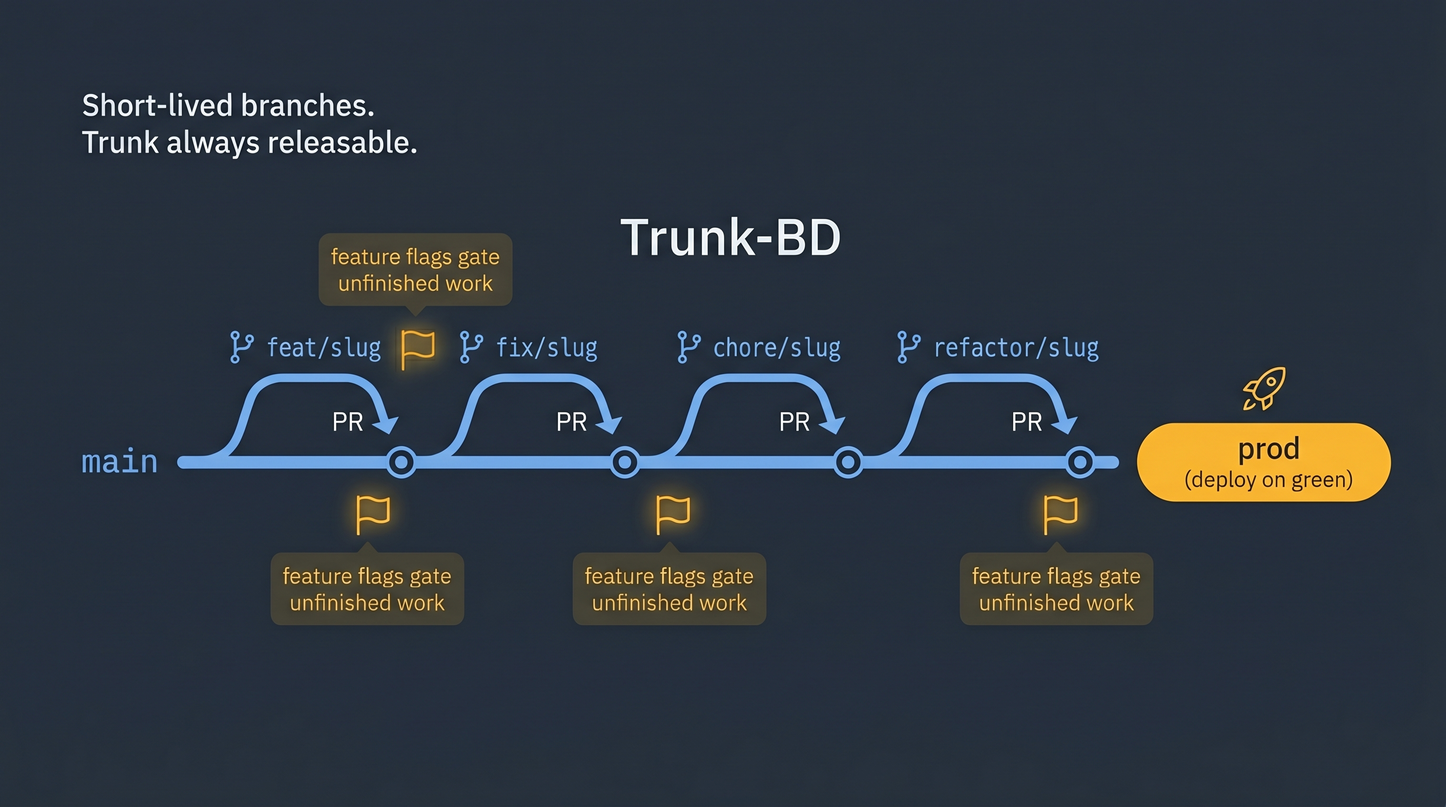
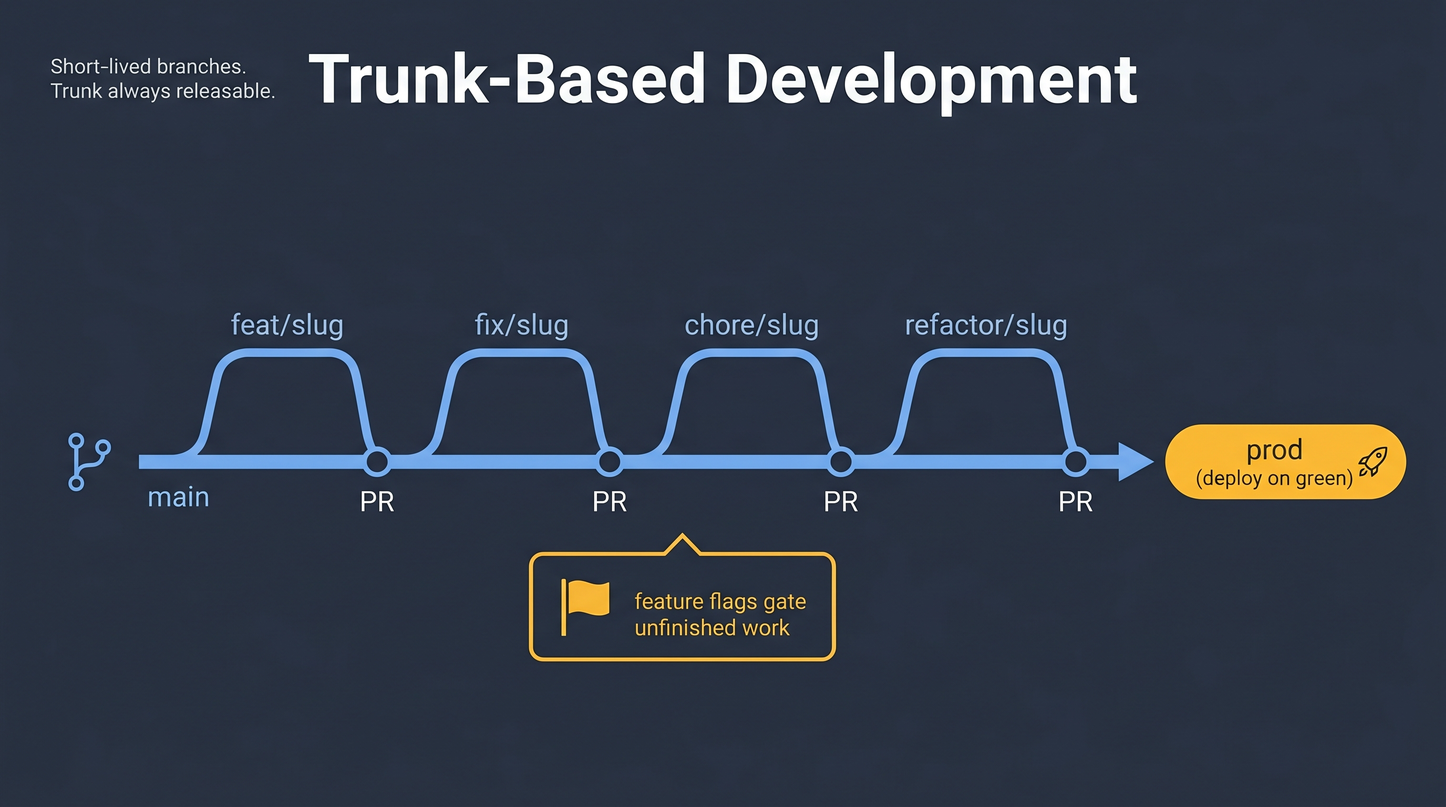
fix(images): regenerate trunk-based.png with corrected labels
First-pass output had two issues:
- Title rendered as "Trunk-BD" (model abbreviated "Trunk-Based Development")
- The "feature flags gate unfinished work" callout was duplicated 4× instead
  of appearing once

Updated the prompt to (a) spell the title out explicitly as "Trunk-Based
Development", (b) emphasize the callout should appear exactly once and not
be duplicated. Regenerated via mcp-image — new output has the correct title
and a single amber callout.

Changed region(s): [[0.0312, 0.2812, 1.0, 0.8438], [0.0312, 0.0625, 0.7812, 0.1875], [0.4375, 0.25, 0.5938, 0.3125]]

diff --git a/images/trunk-based.prompt.md b/images/trunk-based.prompt.md
@@ -6,4 +6,4 @@
 
 ## Prompt body
 
-A clean, modern technical diagram in flat vector illustration style showing the Trunk-Based Development branching model. Dark-mode-friendly deep slate background (#1e293b). Soft blue (#60a5fa) for the trunk line and short-lived branches, warm amber (#fbbf24) for feature-flag callouts and the deploy label. Sans-serif typography, crisp labels. One horizontal branch line labeled exactly "main" running left-to-right across the full width — visually thicker than the feature branches to emphasize it is the trunk. Above "main", show four very short feature branches (much shorter than in the GitHub Flow diagram) splitting off and merging back in quickly, labeled exactly "feat/slug", "fix/slug", "chore/slug", "refactor/slug". Each merge back is labeled "PR". To the right of main, an amber pill labeled exactly "prod (deploy on green)" with a rocket icon. Three small amber flag icons hover above the main line at different points with a callout reading exactly "feature flags gate unfinished work". Small callout at the top-left reads "Short-lived branches. Trunk always releasable." Minimal line icons — a git branch symbol, flag icons for the feature flags, small circle markers at each merge point. Clear hierarchy, no photo-realistic elements, consistent stroke width.
+A clean, modern technical diagram in flat vector illustration style showing the Trunk-Based Development branching model. Dark-mode-friendly deep slate background (#1e293b). Soft blue (#60a5fa) for the trunk line and short-lived branches, warm amber (#fbbf24) for feature-flag callouts and the deploy label. Sans-serif typography, crisp labels. Diagram title across the top reads exactly "Trunk-Based Development" in large bold sans-serif. One horizontal branch line labeled exactly "main" running left-to-right across the full width — visually thicker than the feature branches to emphasize it is the trunk. Above "main", show four very short feature branches (much shorter than in the GitHub Flow diagram) splitting off and merging back in quickly, labeled exactly "feat/slug", "fix/slug", "chore/slug", "refactor/slug". Each merge back is labeled "PR". To the right of main, a single amber pill labeled exactly "prod (deploy on green)" with a rocket icon. Below the trunk, a single amber callout box (appearing exactly once, not repeated) contains one amber flag icon and the text "feature flags gate unfinished work" — this callout should NOT be duplicated. Small annotation at the top-left reads "Short-lived branches. Trunk always releasable." Minimal line icons — a git branch symbol, one flag icon inside the single callout box, small circle markers at each merge point. Clear hierarchy, no photo-realistic elements, consistent stroke width. Do not include any other repeated labels or duplicate callouts anywhere in the image.
